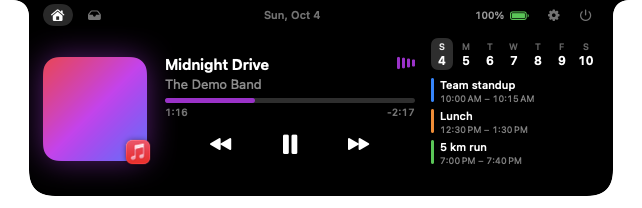
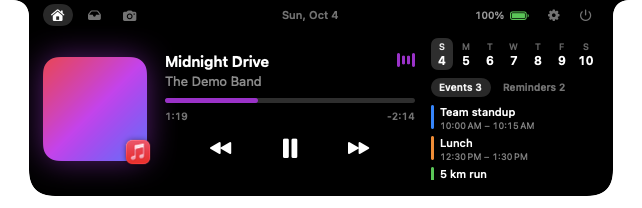
Docs: new features, install from Releases, permissions and privacy

diff --git a/docs/index.html b/docs/index.html
@@ -111,7 +111,7 @@
 <body data-lang="en">
 <div class="wrap">
   <header class="top">
-    <div class="brand">Nunsseop<span>눈썹</span></div>
+    <div class="brand"><img src="images/icon.png" width="28" height="28" alt="" style="vertical-align:-8px;margin-right:8px">Nunsseop<span>눈썹</span></div>
     <div class="lang" role="group" aria-label="Language">
       <button type="button" data-set="en" aria-pressed="true">EN</button>
       <button type="button" data-set="ko" aria-pressed="false">한국어</button>
@@ -123,10 +123,10 @@
     <p class="lead en">Your MacBook notch, made useful. What's playing, a file shelf, your calendar and system HUDs, all hanging from the top of the screen.</p>
     <p class="lead ko">MacBook 노치를 쓸모 있는 공간으로. 지금 재생 중인 음악, 파일 선반, 캘린더, 시스템 HUD를 화면 맨 위에서 바로.</p>
     <div class="cta">
-      <a class="btn primary" href="https://github.com/namekun/Nunsseop">
-        <span class="en">View on GitHub</span><span class="ko">GitHub에서 보기</span>
+      <a class="btn primary" href="https://github.com/namekun/Nunsseop/releases/latest">
+        <span class="en">Download for macOS</span><span class="ko">macOS용 다운로드</span>
       </a>
-      <a class="btn" href="#install"><span class="en">Build it</span><span class="ko">빌드하기</span></a>
+      <a class="btn" href="https://github.com/namekun/Nunsseop"><span class="en">View on GitHub</span><span class="ko">GitHub에서 보기</span></a>
     </div>
     <div class="stage">
       <div class="menubar"></div>
@@ -141,8 +141,8 @@
       <div class="card">
         <div class="icon">🎵</div>
         <h3><span class="en">Now playing</span><span class="ko">지금 재생 중</span></h3>
-        <p class="en">Artwork, progress and controls for anything that plays: Music, Spotify, YouTube Music, and browsers such as Safari, Chrome, Arc, Dia and Aside.</p>
-        <p class="ko">Music, Spotify, YouTube Music, 그리고 Safari·Chrome·Arc·Dia·Aside 같은 브라우저 재생까지 앨범아트, 진행바, 재생 컨트롤로 보여 줍니다.</p>
+        <p class="en">Artwork, progress and controls for anything that plays: Music, Spotify, YouTube Music, and browsers such as Safari, Chrome, Arc, Dia and Aside. Drag the bar to seek.</p>
+        <p class="ko">Music, Spotify, YouTube Music, 그리고 Safari·Chrome·Arc·Dia·Aside 같은 브라우저 재생까지 앨범아트, 진행바, 재생 컨트롤로 보여 줍니다. 진행바를 끌어 위치를 옮길 수 있습니다.</p>
       </div>
       <div class="card">
         <div class="icon">👀</div>
@@ -153,26 +153,38 @@
       <div class="card">
         <div class="icon">📥</div>
         <h3><span class="en">File shelf</span><span class="ko">파일 선반</span></h3>
-        <p class="en">Drop files on the notch to keep them close, drag them out when you need them. It survives restarts.</p>
-        <p class="ko">파일을 노치에 끌어다 두고 필요할 때 다시 끌어내세요. 앱을 다시 켜도 그대로 남아 있습니다.</p>
+        <p class="en">Drop files on the notch to keep them close and drag them out when you need them. Send them with AirDrop or share them in a click.</p>
+        <p class="ko">파일을 노치에 끌어다 두고 필요할 때 다시 끌어내세요. AirDrop이나 공유로 바로 보낼 수 있습니다.</p>
       </div>
       <div class="card">
         <div class="icon">📅</div>
-        <h3><span class="en">Calendar</span><span class="ko">캘린더</span></h3>
-        <p class="en">A week strip and the day's events, right next to your music.</p>
-        <p class="ko">음악 옆에 이번 주 날짜와 그날 일정을 보여 줍니다.</p>
+        <h3><span class="en">Calendar and reminders</span><span class="ko">캘린더와 미리 알림</span></h3>
+        <p class="en">A week strip, the day's events and the reminders due, right next to your music. Tick reminders off from the notch.</p>
+        <p class="ko">음악 옆에 이번 주 날짜, 그날 일정, 미리 알림을 보여 줍니다. 미리 알림은 노치에서 바로 완료할 수 있습니다.</p>
       </div>
       <div class="card">
         <div class="icon">🔊</div>
         <h3><span class="en">System HUDs</span><span class="ko">시스템 HUD</span></h3>
-        <p class="en">Volume, brightness, charging and headphone battery appear in the notch. It can replace the system volume and brightness HUD.</p>
-        <p class="ko">볼륨, 밝기, 충전, 헤드폰 배터리를 노치에 표시합니다. 기본 볼륨·밝기 HUD를 대체할 수도 있습니다.</p>
+        <p class="en">Volume, brightness (even on external displays over DDC), keyboard backlight, charging and headphone battery appear in the notch, replacing the system HUD if you like.</p>
+        <p class="ko">볼륨, 밝기(DDC 지원 외부 모니터 포함), 키보드 백라이트, 충전, 헤드폰 배터리를 노치에 표시하고, 원하면 기본 HUD를 대체합니다.</p>
+      </div>
+      <div class="card">
+        <div class="icon">📷</div>
+        <h3><span class="en">Mirror</span><span class="ko">미러</span></h3>
+        <p class="en">Check yourself before a call with the camera of your choice. Nothing is recorded.</p>
+        <p class="ko">통화 전에 원하는 카메라로 내 모습을 확인하세요. 녹화되지 않습니다.</p>
+      </div>
+      <div class="card">
+        <div class="icon">👆</div>
+        <h3><span class="en">Gestures</span><span class="ko">제스처</span></h3>
+        <p class="en">Swipe down on the notch to open it, up to close it, sideways on Home to skip tracks.</p>
+        <p class="ko">노치에서 아래로 쓸면 열리고 위로 쓸면 닫히며, 홈에서 좌우로 쓸면 곡이 넘어갑니다.</p>
       </div>
       <div class="card">
         <div class="icon">⚙</div>
         <h3><span class="en">Make it yours</span><span class="ko">내 맞게 조절</span></h3>
-        <p class="en">Size, hover delay, sneak peek and every HUD are adjustable. English and Korean, following your Mac's language.</p>
-        <p class="ko">크기, 열림 지연, 미리보기, 각 HUD를 조절할 수 있습니다. Mac 언어에 따라 영어 또는 한국어로 표시됩니다.</p>
+        <p class="en">Display, size, hover delay, sneak peek and every HUD are adjustable. Available in English, Korean, Japanese, Chinese, Spanish, German and French.</p>
+        <p class="ko">표시할 화면, 크기, 열림 지연, 미리보기, 각 HUD를 조절할 수 있습니다. 영어, 한국어, 일본어, 중국어, 스페인어, 독일어, 프랑스어를 지원합니다.</p>
       </div>
     </div>
   </section>
@@ -180,6 +192,10 @@
   <section>
     <h2><span class="en">In the notch</span><span class="ko">노치에서는 이렇게</span></h2>
     <p class="sub"><span class="en">Screens without a notch get a pill at the top centre.</span><span class="ko">노치가 없는 화면에서는 상단 중앙에 작은 막대로 나타납니다.</span></p>
+    <div class="stage" style="margin:0 0 14px">
+      <div class="menubar"></div>
+      <img src="images/shelf.png" width="642" alt="File shelf with the AirDrop tile">
+    </div>
     <div class="shots">
       <div class="shot">
         <img src="images/collapsed.png" width="284" height="42" alt="Collapsed notch with artwork and visualizer">
@@ -197,14 +213,17 @@
   </section>
 
   <section id="install">
-    <h2><span class="en">Build and run</span><span class="ko">빌드하고 실행하기</span></h2>
-    <p class="sub"><span class="en">Requires macOS 14 or later and the Xcode command line tools.</span><span class="ko">macOS 14 이상과 Xcode 명령줄 도구가 필요합니다.</span></p>
+    <h2><span class="en">Install</span><span class="ko">설치</span></h2>
+    <p class="sub"><span class="en">macOS 14 or later. Download the dmg from <a href="https://github.com/namekun/Nunsseop/releases/latest">Releases</a> and drag Nunsseop to Applications.</span><span class="ko">macOS 14 이상. <a href="https://github.com/namekun/Nunsseop/releases/latest">Releases</a>에서 dmg를 받아 Nunsseop을 응용 프로그램 폴더로 옮기세요.</span></p>
+    <p class="en">The app isn't notarized yet, so remove the quarantine flag once before the first launch:</p>
+    <p class="ko">아직 공증되지 않은 앱이라, 처음 실행하기 전에 한 번 격리 표시를 지워 주세요.</p>
+<pre><code>xattr -dr com.apple.quarantine /Applications/Nunsseop.app</code></pre>
+    <p class="en" style="margin-top:28px">Or build it yourself with the Xcode command line tools:</p>
+    <p class="ko" style="margin-top:28px">직접 빌드하려면 Xcode 명령줄 도구가 필요합니다.</p>
 <pre><code>git clone https://github.com/namekun/Nunsseop.git
 cd Nunsseop
 ./scripts/bundle.sh release
 open build/Nunsseop.app</code></pre>
-    <p class="note en">Builds are ad-hoc signed, so macOS may ask for permissions again after you rebuild. Move the app to /Applications before turning on launch at login.</p>
-    <p class="note ko">임시 서명으로 빌드되기 때문에, 다시 빌드하면 macOS가 권한을 다시 물을 수 있습니다. 로그인 시 실행을 켜기 전에 앱을 /Applications로 옮겨 주세요.</p>
   </section>
 
   <section>
@@ -216,7 +235,9 @@ open build/Nunsseop.app</code></pre>
         </thead>
         <tbody>
           <tr><td><span class="en">Calendar</span><span class="ko">캘린더</span></td><td><span class="en">Calendars</span><span class="ko">캘린더</span></td></tr>
-          <tr><td><span class="en">Replacing the volume/brightness HUD</span><span class="ko">볼륨·밝기 HUD 대체</span></td><td><span class="en">Accessibility</span><span class="ko">손쉬운 사용</span></td></tr>
+          <tr><td><span class="en">Reminders</span><span class="ko">미리 알림</span></td><td><span class="en">Reminders</span><span class="ko">미리 알림</span></td></tr>
+          <tr><td><span class="en">Mirror</span><span class="ko">미러</span></td><td><span class="en">Camera</span><span class="ko">카메라</span></td></tr>
+          <tr><td><span class="en">Replacing the volume, brightness and keyboard backlight HUD</span><span class="ko">볼륨·밝기·키보드 백라이트 HUD 대체</span></td><td><span class="en">Accessibility</span><span class="ko">손쉬운 사용</span></td></tr>
           <tr><td><span class="en">Fallback for Music, Spotify and browsers</span><span class="ko">Music·Spotify·브라우저 대체 경로</span></td><td><span class="en">Automation</span><span class="ko">자동화</span></td></tr>
           <tr><td><span class="en">Launch at login</span><span class="ko">로그인 시 실행</span></td><td><span class="en">Login Items</span><span class="ko">로그인 항목</span></td></tr>
         </tbody>

diff --git a/README.md b/README.md
@@ -1,3 +1,5 @@
+<p align="center"><img src="docs/images/icon.png" width="128" alt="Nunsseop icon"></p>
+
 # Nunsseop
 
 **Nunsseop** (눈썹, Korean for *eyebrow*) turns the MacBook notch into a small, useful space: what's playing, a file shelf, your calendar and system HUDs, all hanging from the top of the screen.
@@ -10,18 +12,23 @@ Website: https://namekun.github.io/Nunsseop/ · [한국어](#한국어)
 
 ## Features
 
-- **Now playing.** Title, artist, artwork, progress and playback controls for any app that reports to macOS Now Playing: Music, Spotify, YouTube Music, and browsers such as Safari, Chrome, Arc, Dia and Aside. The collapsed notch grows a small artwork and visualizer tinted with the artwork's colour.
+- **Now playing.** Title, artist, artwork and playback controls for any app that reports to macOS Now Playing: Music, Spotify, YouTube Music, and browsers such as Safari, Chrome, Arc, Dia and Aside. Drag the progress bar to seek. The collapsed notch grows a small artwork and visualizer tinted with the artwork's colour.
 - **Sneak peek.** When the track or play state changes, the title appears under the notch for a few seconds (or always, if you prefer).
-- **File shelf.** Drag files onto the notch to keep them, drag them back out when you need them. The shelf survives restarts.
-- **Calendar.** A week strip and the selected day's events on the Home tab.
-- **System HUDs.** Volume changes, power connected or disconnected, and headphone battery (left, right and case) appear in the notch. Optionally, Nunsseop can take over the volume and brightness keys so the system HUD no longer appears.
-- **Settings.** Expanded size, collapsed width on screens without a notch, hover delay, sneak peek, launch at login and every HUD can be adjusted.
-- **English and Korean.** The interface follows your macOS language.
+- **File shelf.** Drag files onto the notch to keep them and drag them back out when you need them. Drop files on the AirDrop tile to send them, or share them from the context menu. The shelf survives restarts.
+- **Calendar and reminders.** A week strip, the selected day's events and the reminders due by then, which you can tick off from the notch.
+- **Mirror.** A quick look at yourself through the camera of your choice.
+- **System HUDs.** Volume, brightness (built-in and DDC-capable external displays), keyboard backlight, power connected or disconnected, and headphone battery (left, right and case) appear in the notch. Nunsseop can take over the volume and brightness keys so the system HUD no longer appears.
+- **Gestures.** Swipe down on the notch to open it, up to close it, and left or right on the Home tab to skip tracks.
+- **Settings.** Which display to use, size, hover delay, sneak peek, launch at login, update checks and every HUD can be adjusted.
+- **Seven languages.** English, Korean, Japanese, Simplified Chinese, Spanish, German and French, following your macOS language.
 
 Screens without a notch get a pill at the top centre instead.
 
 <p align="center">
-  <img src="docs/images/collapsed.png" width="420" alt="Collapsed notch while music plays">
+  <img src="docs/images/shelf.png" width="680" alt="File shelf with the AirDrop tile">
+</p>
+<p align="center">
+  <img src="docs/images/collapsed.png" width="300" alt="Collapsed notch while music plays">
   <img src="docs/images/hud-headphones.png" width="420" alt="Headphone battery HUD">
 </p>
 
@@ -30,25 +37,37 @@ Screens without a notch get a pill at the top centre instead.
 - macOS 14 Sonoma or later (tested on macOS 26)
 - Xcode command line tools with Swift 5.10 or later to build
 
-## Build and run
+## Install
+
+Download the latest `Nunsseop-<version>.dmg` from [Releases](https://github.com/namekun/Nunsseop/releases), open it and drag Nunsseop to Applications.
+
+The app is not notarized, so macOS blocks the first launch. Remove the quarantine flag once:
+
+```sh
+xattr -dr com.apple.quarantine /Applications/Nunsseop.app
+```
+
+The app has no Dock icon. Hover over the notch to open it; right-click it for Settings and Quit.
+
+## Build from source
 
 ```sh
 git clone https://github.com/namekun/Nunsseop.git
 cd Nunsseop
-./scripts/bundle.sh release
-open build/Nunsseop.app
+./scripts/bundle.sh release      # build/Nunsseop.app
+./scripts/make-dmg.sh            # build/Nunsseop-<version>.dmg
 ```
 
-`scripts/bundle.sh` builds the Swift package and wraps it in `build/Nunsseop.app` with an ad-hoc signature. Move the app to `/Applications` if you want to launch it at login.
-
-The app has no Dock icon. Hover over the notch to open it; right-click it for Settings and Quit.
+`scripts/bundle.sh` builds the Swift package and wraps it in an app bundle with an ad-hoc signature.
 
 ## Permissions
 
 | Feature | Permission | When it is asked |
 | --- | --- | --- |
 | Calendar | Calendars | When you press *Allow Access* on the Home tab |
-| Taking over volume/brightness keys | Accessibility | When you turn the option on in Settings |
+| Reminders | Reminders | When you press *Allow Reminders* on the Home tab |
+| Mirror | Camera | When you press *Allow Camera* on the Mirror tab |
+| Taking over volume, brightness and keyboard backlight keys | Accessibility | When you turn the option on in Settings |
 | Fallback now playing for Music/Spotify/browsers | Automation | Only if the MediaRemote helper is unavailable |
 | Launch at login | Login Items | When you turn it on in Settings |
 
@@ -62,7 +81,12 @@ This relies on private API and on how macOS treats Apple-signed binaries, so a f
 
 ## Privacy
 
-Nunsseop has no network features of its own. When the MediaRemote helper is unavailable it downloads artwork images over HTTPS from the image servers of known music and video services, and it does not collect or send any data.
+Nunsseop does not collect or send any personal data. Its network use is limited to:
+
+- checking `api.github.com` for a newer release once a day (can be turned off in Settings);
+- downloading artwork over HTTPS from the image servers of known music and video services, only when the MediaRemote helper is unavailable.
+
+The camera preview is shown only while the Mirror tab is open and is never recorded.
 
 ## License
 
@@ -74,12 +98,14 @@ Nunsseop has no network features of its own. When the MediaRemote helper is unav
 
 **Nunsseop(눈썹)** 은 MacBook 노치를 쓸모 있는 공간으로 바꾸는 macOS 앱입니다.
 
-- **지금 재생 중:** Music, Spotify, YouTube Music, 그리고 Safari·Chrome·Arc·Dia·Aside 같은 브라우저 재생을 노치에 표시하고 제어합니다.
+- **지금 재생 중:** Music, Spotify, YouTube Music, 그리고 Safari·Chrome·Arc·Dia·Aside 같은 브라우저 재생을 노치에 표시하고 제어합니다. 진행바를 끌어 재생 위치를 옮길 수 있습니다.
 - **미리보기:** 곡이나 재생 상태가 바뀌면 노치 아래에 제목이 잠깐 나옵니다.
-- **파일 선반:** 노치에 파일을 끌어다 두고, 필요할 때 다시 끌어냅니다.
-- **캘린더:** 홈 탭에 주간 날짜와 일정을 보여 줍니다.
-- **시스템 HUD:** 볼륨, 전원 연결, 헤드폰 배터리를 노치에 표시합니다. 원하면 기본 볼륨·밝기 HUD를 대체합니다.
-- **설정:** 크기, 열림 지연, 미리보기, 로그인 시 실행 등을 조절할 수 있습니다.
-- **언어:** macOS 언어 설정에 따라 영어 또는 한국어로 표시됩니다.
+- **파일 선반:** 노치에 파일을 끌어다 두고 필요할 때 다시 끌어냅니다. AirDrop 칸에 놓으면 바로 AirDrop으로 보내고, 우클릭으로 공유할 수 있습니다.
+- **캘린더와 미리 알림:** 홈 탭에 주간 날짜, 일정, 미리 알림을 보여 주고 노치에서 바로 완료 처리합니다.
+- **시스템 HUD:** 볼륨, 밝기(내장 화면과 DDC 지원 외부 모니터), 키보드 백라이트, 전원 연결, 헤드폰 배터리를 노치에 표시합니다. 원하면 기본 볼륨·밝기 HUD를 대체합니다.
+- **미러:** 원하는 카메라로 내 모습을 바로 확인합니다.
+- **제스처:** 노치에서 아래로 쓸면 열리고 위로 쓸면 닫히며, 홈 탭에서 좌우로 쓸면 곡이 넘어갑니다.
+- **설정:** 표시할 화면, 크기, 열림 지연, 미리보기, 로그인 시 실행, 업데이트 확인 등을 조절할 수 있습니다.
+- **언어:** 영어, 한국어, 일본어, 중국어(간체), 스페인어, 독일어, 프랑스어를 macOS 언어 설정에 따라 표시합니다.
 
-빌드 방법과 필요한 권한은 위 영문 설명을 참고하세요. 재생 정보는 비공개 MediaRemote 프레임워크를 Apple 서명 `/usr/bin/perl` 안에서 호출해 읽기 때문에, 이후 macOS 업데이트에서 동작하지 않을 수 있습니다.
+설치는 [Releases](https://github.com/namekun/Nunsseop/releases)에서 dmg를 받아 응용 프로그램 폴더로 옮기면 됩니다. 공증되지 않은 앱이라 처음 한 번은 위의 `xattr` 명령으로 격리 표시를 지워야 합니다. 빌드 방법과 필요한 권한은 위 영문 설명을 참고하세요. 재생 정보는 비공개 MediaRemote 프레임워크를 Apple 서명 `/usr/bin/perl` 안에서 호출해 읽기 때문에, 이후 macOS 업데이트에서 동작하지 않을 수 있습니다.
